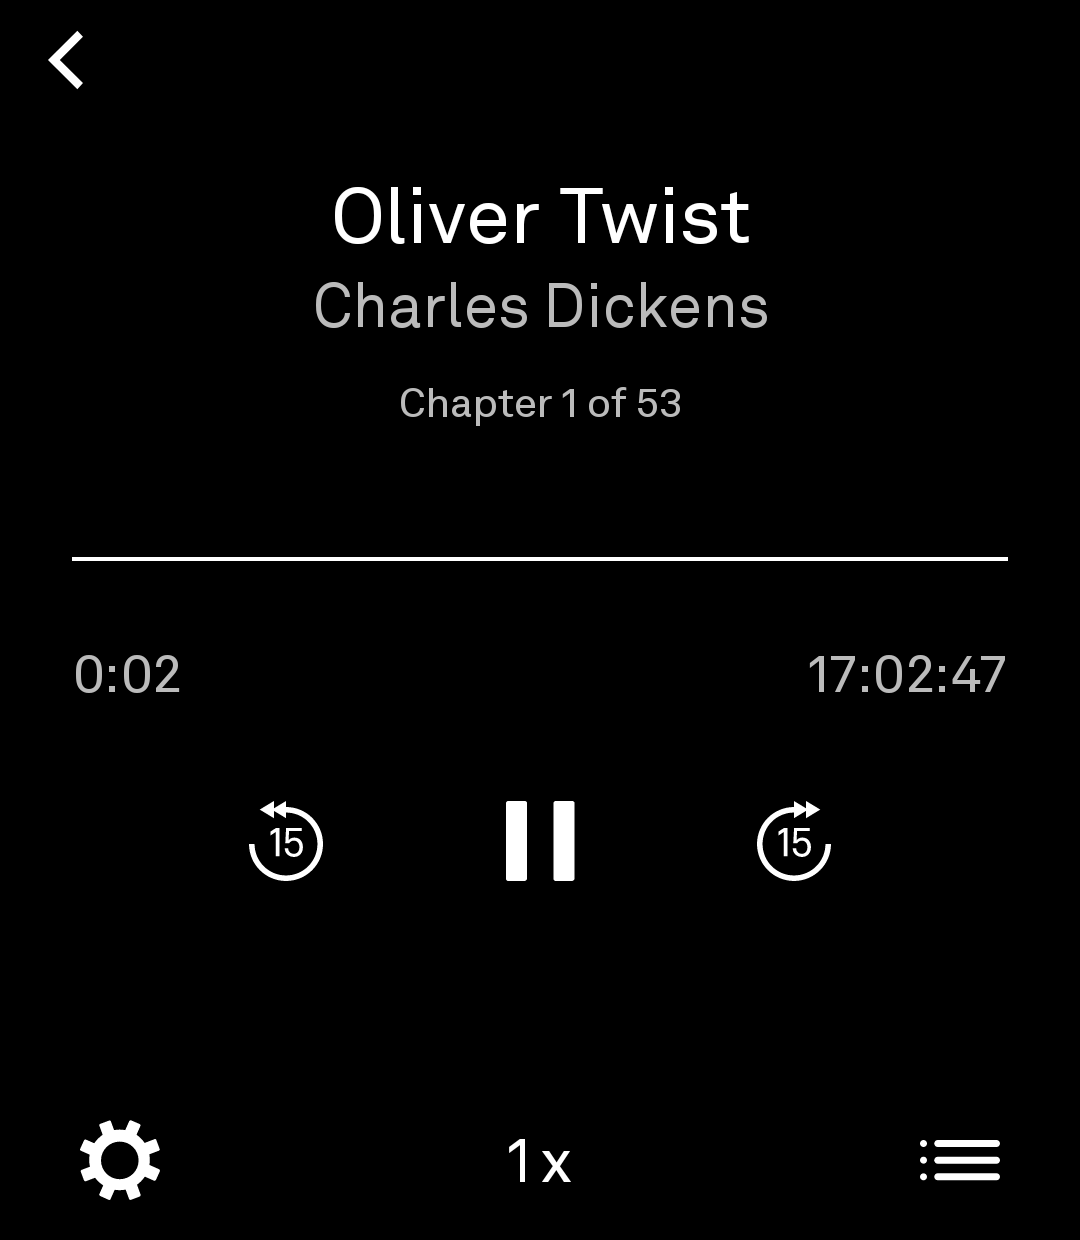
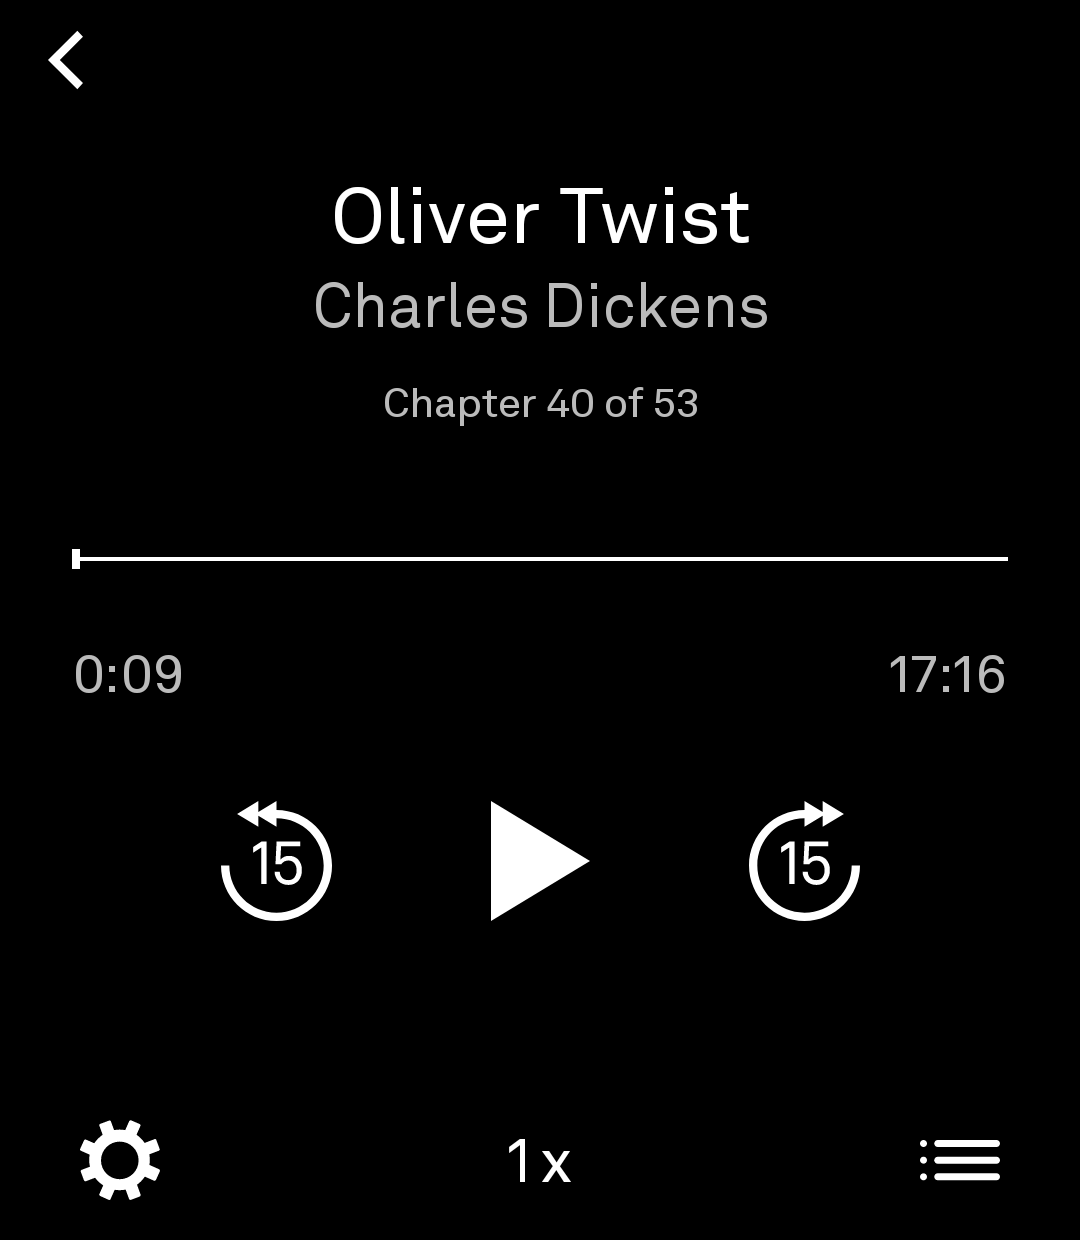
0.3.0: beta status, docs, and real-device screenshots
- Version bump: app versionCode 13 / 0.3.0, server versionCode 3 / 0.3.0
- README: beta status; heritage (fork of sjkornelsen/bard) + Light ethos and
  LightOS tool+companion architecture; features/limitations/roadmap updated
  for chapter navigation, chapter-scoped player time, speed, auto-play
- RELEASE.md: smoke-test + known-limitation wording updated
- Screenshots: recaptured on a real LP3 (library, player, chapters, settings,
  speed); drop the stale edit-mode reference

diff --git a/README.md b/README.md
@@ -8,11 +8,15 @@ Instead of treating audiobooks as another streaming platform, Audiobooks treats 
 
 There are no recommendations, storefronts, advertisements, social features, or cover art—just your books.
 
-Audiobooks is currently in **alpha**. While it is already suitable for daily use, features and behavior may continue to evolve before a stable release.
+Built with the Light ethos: **stripped back, calm, and intentionally small**. Books load from the device — a single shared folder, no accounts, no cloud. Audiobooks is a **real LightOS tool**: a thin interface built on the Light SDK design system, with a companion app hosting the on-device library, scanning, and playback — the same tool + companion architecture Light's own music and podcast tools use, so background listening survives the tool closing.
 
-> **Current Status:** Alpha
+**Heritage:** Audiobooks began as a fork of [Bard](https://github.com/sjkornelsen/bard) by sjkornelsen, rebuilt around local-only playback.
+
+Audiobooks is currently in **beta**. It is suitable for daily use; features and behavior may still evolve before a stable release.
+
+> **Current Status:** Beta
 >
-> **Current Version:** 0.1.0 (versionCode 11)
+> **Current Version:** 0.3.0 (versionCode 13)
 
 > **About the name:** the app is called *Audiobooks* — a plain, descriptive
 > name in the Light Phone tool-naming style. Application IDs:
@@ -23,12 +27,12 @@ Audiobooks is currently in **alpha**. While it is already suitable for daily use
 
 # Screenshots
 
-The library, player, and settings on the LightOS emulator (light-on-black, like the device):
+The library, player, chapter list, settings, and speed picker on a Light Phone III (light-on-black):
 
 <p align="center">
   <img src="screenshots/library.png" width="32%" alt="Library" />
-  <img src="screenshots/edit.png" width="32%" alt="Edit mode" />
   <img src="screenshots/player.png" width="32%" alt="Player" />
+  <img src="screenshots/chapters.png" width="32%" alt="Chapters" />
   <img src="screenshots/settings.png" width="32%" alt="Settings" />
   <img src="screenshots/speed.png" width="32%" alt="Playback speed" />
 </p>
@@ -49,9 +53,10 @@ Audiobooks plays audiobooks stored on your device, without a cloud account or su
 ### Features
 
 - Single-file audiobooks
-- Multi-file audiobooks organized as folders
-- Continuous playback across multiple files
-- Combined timeline and duration
+- Multi-file audiobooks organized as folders, played continuously in filename order
+- Chapter list per multi-file book (titles from embedded metadata), with per-chapter seek
+- Chapter-scoped time and progress in the player; whole-book percent in the library
+- Playback speed (0.5x–2x), with an optional Auto-Play "next chapter" toggle
 - Persistent listening progress across the entire book
 - Resume playback
 - Recent-first library ordering
@@ -73,7 +78,7 @@ Audiobooks scans the shared `Audiobooks` folder at any depth. Individual .mp3 an
 
 Files are played in alphabetical order, so numbering them (01, 02, 03, …) is recommended.
 
-4. In Audiobooks, open the app — the library lists every book found in the folder (tap the settings icon in the library's top bar to rescan).
+4. In Audiobooks, open the app — the library lists every book found in the folder (tap the settings icon in the library's bottom bar, then "Scan Library Now", to rescan).
 
 Android may request permission to read your audio library. Audiobooks does **not** request broad "All Files" storage access.
 
@@ -85,8 +90,8 @@ Audiobooks is currently designed for the Light Phone III and Android 13 or newer
 
 Current limitations include:
 
-- Multi-file local audiobooks are played in filename order. Chapter metadata within multi-file books is not yet exposed in the interface.
-- Embedded chapter navigation is not supported.
+- Multi-file local audiobooks play in filename order; chapter titles come from embedded metadata (fallback: file name).
+- Embedded chapter metadata (MP3 chapter tags, M4B bookmarks) is not parsed — chapter navigation works per-file (folder books), not per embedded bookmark.
 - Cover art is intentionally omitted throughout the interface.
 - Ebook reading, cloud synchronization, metadata editing, and podcast-specific features are not currently supported.
 
@@ -143,7 +148,8 @@ While listening, Audiobooks runs a foreground service so playback continues when
 
 Planned improvements include:
 
-- Chapter navigation
+- In-app library management (remove books)
+- Embedded chapter metadata (MP3 chapter tags, M4B bookmarks)
 - Additional playback refinements
 - Performance and stability improvements
 

diff --git a/RELEASE.md b/RELEASE.md
@@ -102,10 +102,10 @@ adb shell pm grant com.lightphone.audiobooks android.permission.READ_MEDIA_AUDIO
 
 ## Smoke-test checklist
 
-- Open Settings and confirm Version shows the expected release.
 - Open a book, play, seek ±15 seconds, scrub, and change speed from the panel.
 - Open a folder book with several chapter files; confirm playback continues
-  across part boundaries and the chapter list can jump to any part.
+  across part boundaries, the chapter list can jump to any part, and the
+  player's time row is scoped to the current chapter.
 - Press play, leave the app, and confirm background listening continues
   (notification on `audiobooks_playback`, position advances).
 - Press play and check the lockscreen/system media panel: seek bar, play/pause,
@@ -117,8 +117,9 @@ adb shell pm grant com.lightphone.audiobooks android.permission.READ_MEDIA_AUDIO
 ## Known limitations
 
 - Multi-file books play in filename order; the player shows "Chapter N of M"
-  and tapping it opens a chapter list.
-- Embedded chapter metadata (MP3 chapter tags, M4B bookmarks) is not exposed.
+  and tapping it opens a chapter list (titles from embedded metadata).
+- Embedded chapter metadata (MP3 chapter tags, M4B bookmarks) is not parsed —
+  chapter navigation is per-file (folder books) only.
 - No cover art, ebook reading, or cloud sync; books must be on the device in
   `/sdcard/Audiobooks/`.
 - The debug/release APK is large (media3 + sdk:client transitive deps); a
